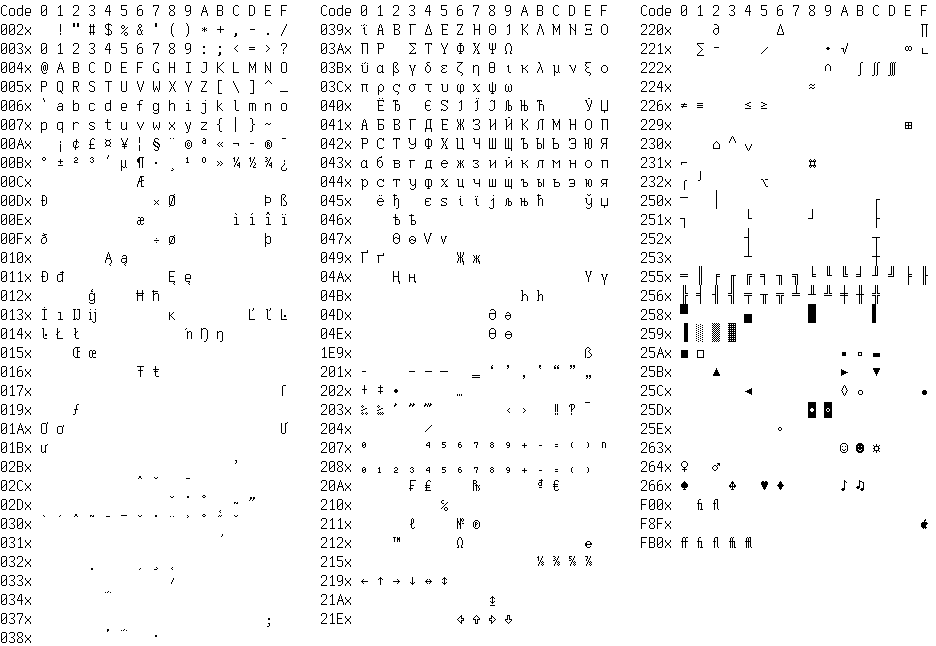
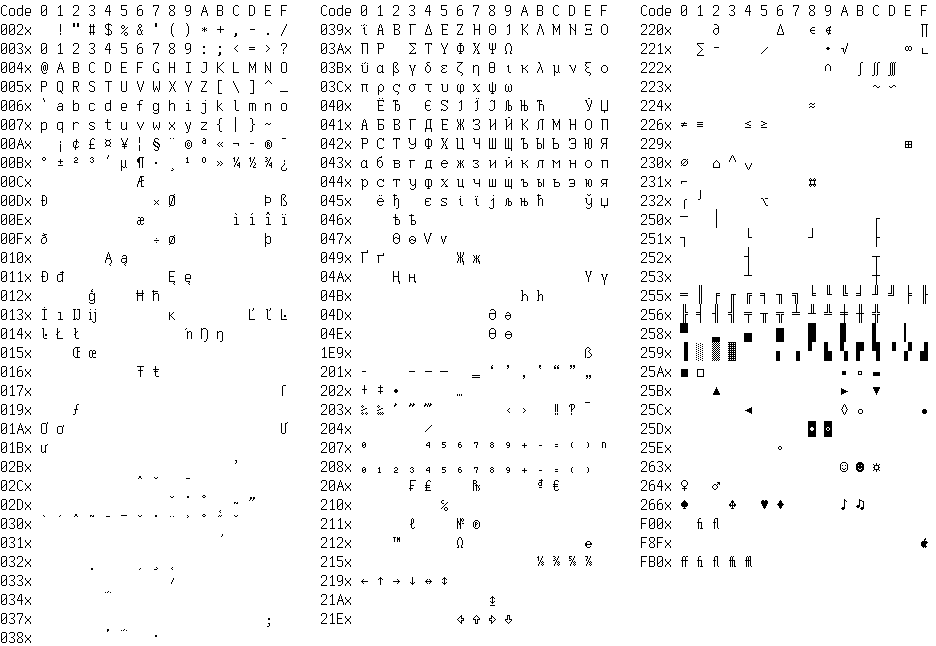
New codepoints

diff --git a/export.js b/export.js
@@ -124,17 +124,17 @@ writeFileSync('./Example.png', getImage([
     'ÀàÁáÂâÃãÄäÅåÆæÇçÈèÉéÊêËëÌìÍíÎîÏïÐðÑñÒòÓóÔôÕõÖöØøÙùÚúÛûÜüÝýÿÞþß',
     'ĀāĂăĄąĆćĈĉĊċČčĎďĐđĒēĔĕĖėĘęĚěĜĝĞğĠġĢģĤĥĦħĨĩĪīĬĭĮįİıĲĳĴĵĶķĸĹĺĻļĽľĿ',
     'ŀŁłŃńŅņŇňŉŊŋŌōŎŏŐőŒœŔŕŖŗŘřŚśŜŝŞşŠšŢţŤťŦŧŨũŪūŬŭŮůŰűŲųŴŵŶŷŸŹźŻżŽžſ',
-    'ΑαΒβΓγΔδΕεΖζΗηΘθΙιΚκΛλΜμΝνΞξΟοΠπΡρΣσςΤτΥυΦφΧχΨψΩωΆάΈέΉήΊίΪϊΐΌόΫϋΎύΰΏώ',
+    'ΑαΒβΓγΔδΕεΖζΗηΘθΙιΚκΛλΜμΝνΞξΟοΠπΡρΣσςΤτΥυΦφΧχΨψΩωΆάΈέΉήΊίΪϊΐΌόΫϋΎύΰΏώ', //TODO: ΆΈΉΊΌΎΏ
     'АаБбВвГгДдЕеЖжЗзИиЙйКкЛлМмНнОоПпРрСсТтУуФфХхЦцЧчШшЩщЪъЫыЬьЭэЮюЯя',
     'ЁёЂђҐґЃѓЄєЅѕІіЇїЈјЉљЊњЋћЌќЎўЏџӘәҖҗҢңӨөҮүҺһѢѣѲѳѴѵ',
-    '–—―‘’‚“”„†‡•…‰‹›⁄₫€№™Ω∂∆∏∑√∞∫≈≠≤≥◊\uF8FFﬁﬂ½¼¾⅛⅜⅝⅞∕⌐≡₣₤₧℅ℓ℮∩∟‗',
-    '⁰¹²³⁴⁵⁶⁷⁸⁹⁺⁻⁼⁽⁾ⁿ₀₁₂₃₄₅₆₇₈₉₊₋₌₍₎;‾ˉ‽℗ﬀﬁﬂﬃﬄ',
+    '–—―‘’‚“”„†‡•…‰‹›⁄₫€№™Ω∂∆∏∑√∞∫≈≠≤≥◊\uF8FFﬁﬂ½¼¾⅛⅜⅝⅞∕⌐¬≡₣₤₧℅ℓ℮∩∟‗⌀∈∉∼∽',
+    '⁰¹²³⁴⁵⁶⁷⁸⁹⁺⁻⁼⁽⁾ⁿ₀₁₂₃₄₅₆₇₈₉₊₋₌₍₎;‾ˉ‽℗ﬀﬁﬂﬃﬄǺǻǼǽǾǿȘșȚțẄẅẀẁẂẃẄẅỲỳẞ',
     'ˆ ˇ ˘ ˙ ˚ ˛ ˜ ˝ ̀ ́ ̃ ̉ ̣ ΄ ΅ ·☺☻♥♦♣♠•◘○◙♂♀♪♫☼►◄↕‼¶§▬↨↑↓→←∟↔▲▼',
-    '⌠□▫○◦▐ ▌▀░░▒▒▓▓██ ╔╦╗┌┬┐╒╤╕╓╥╖  ╔╦╗┌┬┐╒╤╕╓╥╖  ╠╬╣├┼┤╞╪╡╟╫╢',
-    '⌡■▪●•∙·▬▄░░▒▒▓▓██ ╠╬╣├┼┤╞╪╡╟╫╢║═╚╩╝└┴┘╘╧╛╙╨╜│─╚╩╝└┴┘╘╧╛╙╨╜',
+    '⌠□▫○◦▐ ▌▀░░▒▒▓▓██╔╦╗┌┬┐╒╤╕╓╥╖║╔╦╗┌┬┐╒╤╕╓╥╖│╠╬╣├┼┤╞╪╡╟╫╢▂▚▆▎▞',
+    '⌡■▪●•∙·▬▄░░▒▒▓▓██╠╬╣├┼┤╞╪╡╟╫╢═╚╩╝└┴┘╘╧╛╙╨╜─╚╩╝└┴┘╘╧╛╙╨╜▊▘▗▝▖',
     '"Neutral", \'Neutral\', “English”, ‘English’, „German“, ‚German‘, «French», ‹French›',
     '―――― Em—Dash, En–Dash, z₁=10-x+y²*2π, hy‐phen‐ate, мʼята, ´acute, ˝double, ƒ′, ƒ″',
-    '⇧⌥⌘⊞ ⇦⇧⇨⇩⌃⌄ ¼, ½, ¾″ ÔÖŌÕ ŮÚŰÙ ŠŞŻŽŹ iìíîï ǺǻǽȚțẄẅẀẁ',
+    '⇧⌥⌘⊞ ⇦⇧⇨⇩⌃⌄ ¼, ½, ¾″ ÔÖŌÕ ŮÚŰÙ ŠŞŻŽŹ iìíîï',
     'No ambiguity in the characters ‘Il1’, ‘OoОо0’, ‘CcСс’, ‘EeЕе’, etc.:',
     'Cop Сор, Box Вох, Check Сплеск, Cocoa Сосна',
     'The quick brown fox jumps over the lazy dog',
